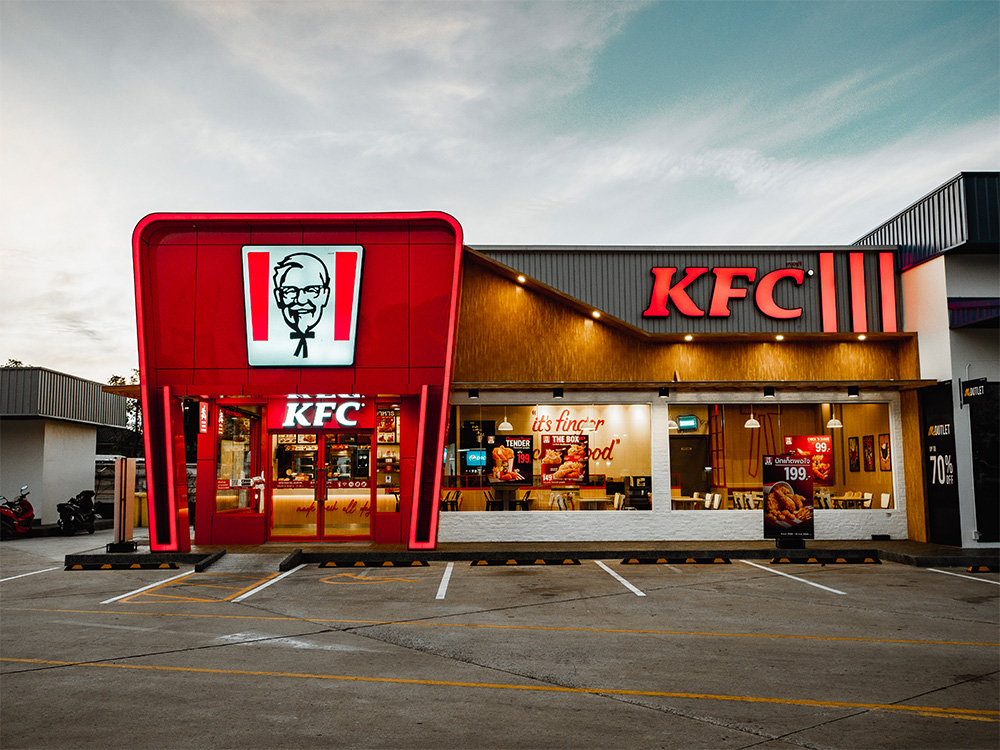
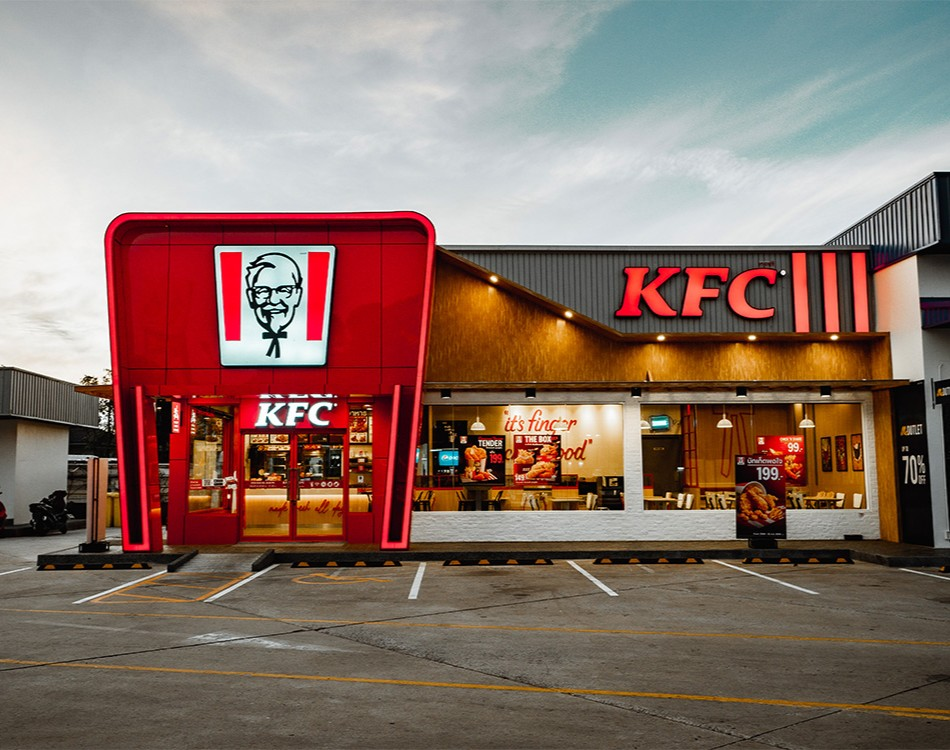
Update all

diff --git a/index.html b/index.html
@@ -7,7 +7,7 @@
 </head>
 <body>
     <h1 style="color: red;">พอร์ตโฟลิโอของฉัน</h1>
-    <img src="kfc.png" alt="Kfc">
+    <img src="kfc.png" alt="Kfc" width="200" height="200">
   <!-- ย่อหน้าแนะนำตัวของฉัน -->
 <p>
   ฉันชื่อ ธนบุตร กำลังศึกษารายวิชา <strong>Front-End Web Development</strong>
@@ -15,7 +15,8 @@
 <p>
   และสนใจงานด้าน <em>UI/UX</em> เป็นพิเศษ
 </p>
-<img src="KFC_CRG_01.jpg" alt="Kfc_Shop">
+<img src="KFC_CRG_01.jpg" alt="Kfc_Shop" width="1050" height="750">
+<img src="KFC_CRG_02.jpg" alt="Kfc_Shop" width="1050" height="750">
 
   <h2>ทักษะที่กำลังศึกษา</h2>
   <ul>
